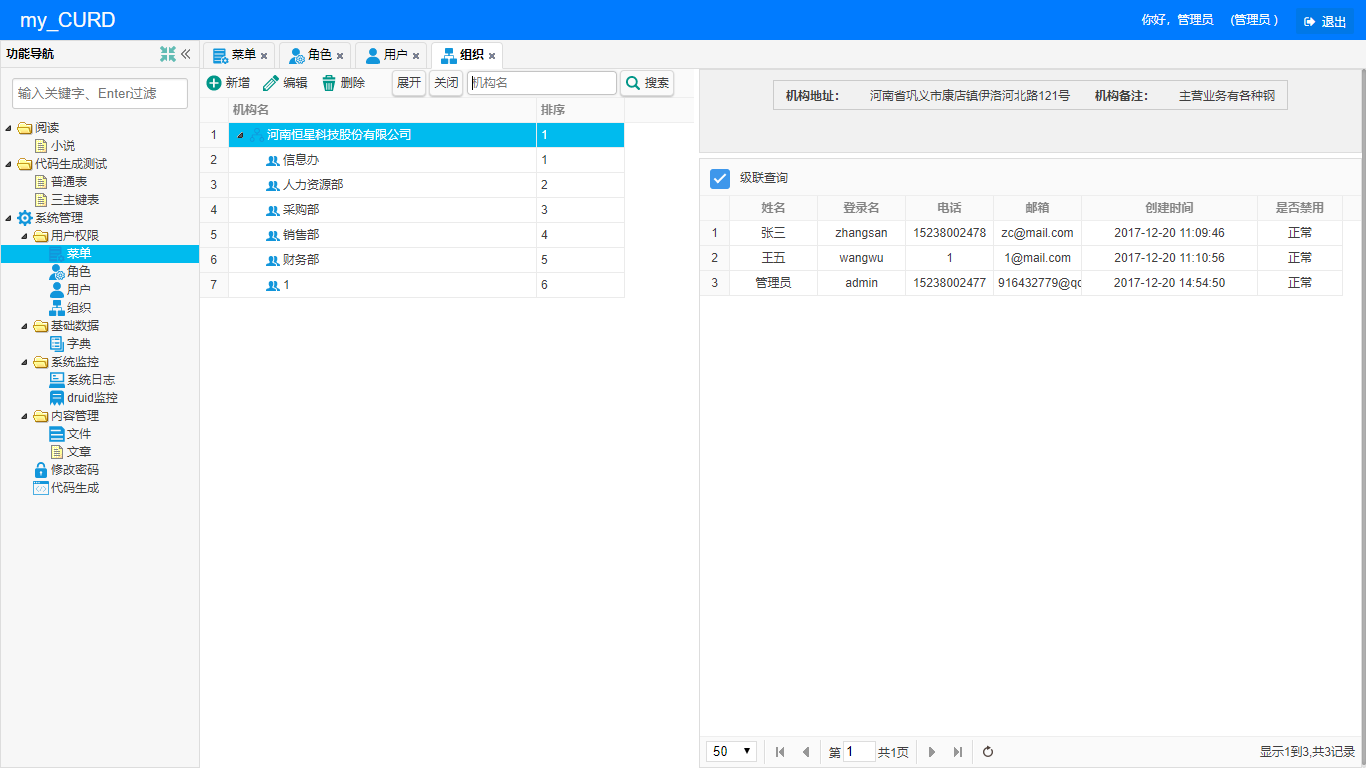
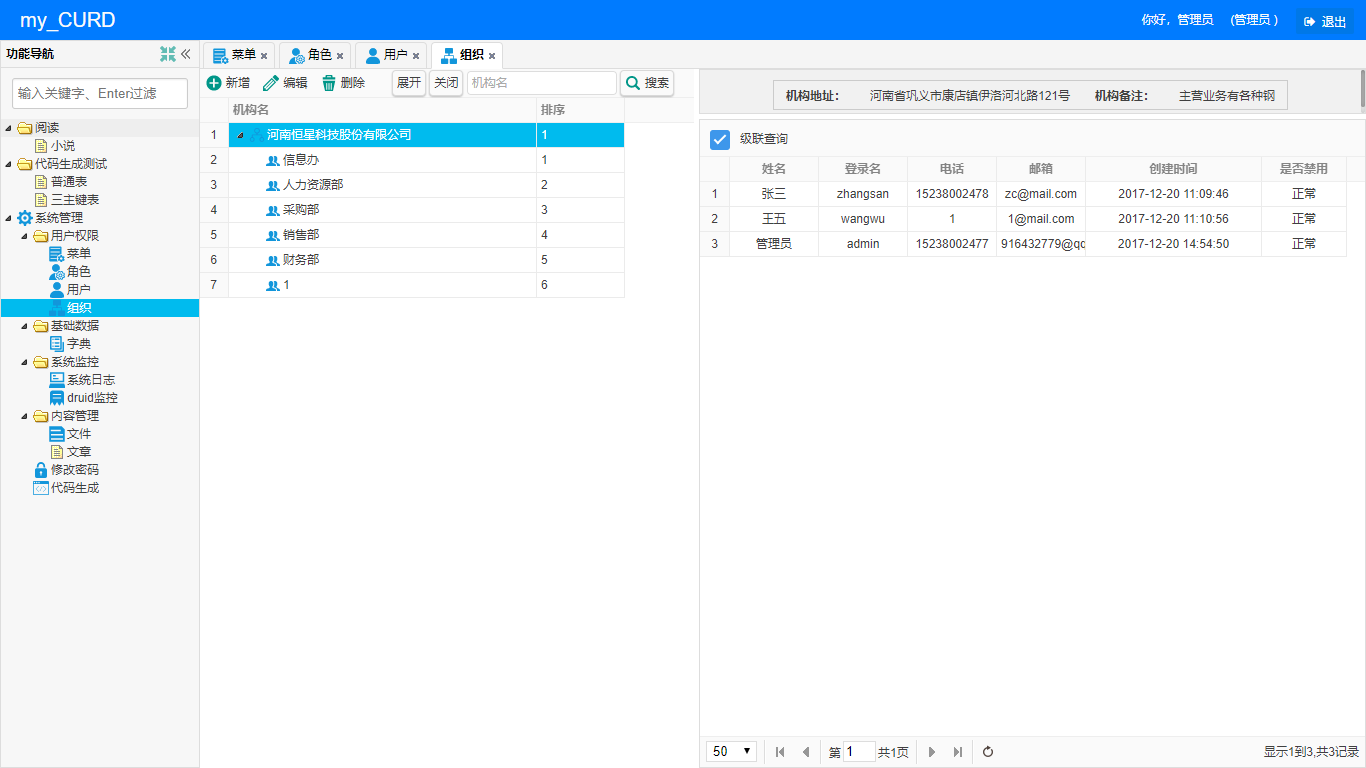
修改

diff --git a/src/main/webapp/res/css/custom.css b/src/main/webapp/res/css/custom.css
@@ -33,7 +33,7 @@
 #permissionTree a:hover {color:#CC3300;text-decoration:underline;}
 
 /*tab iframe 两个滚动条问题*/
-#tabsControl .tabs-panels>.panel>.panel-body {
+#tabGroup .tabs-panels>.panel>.panel-body {
     overflow: hidden;
 }
 
